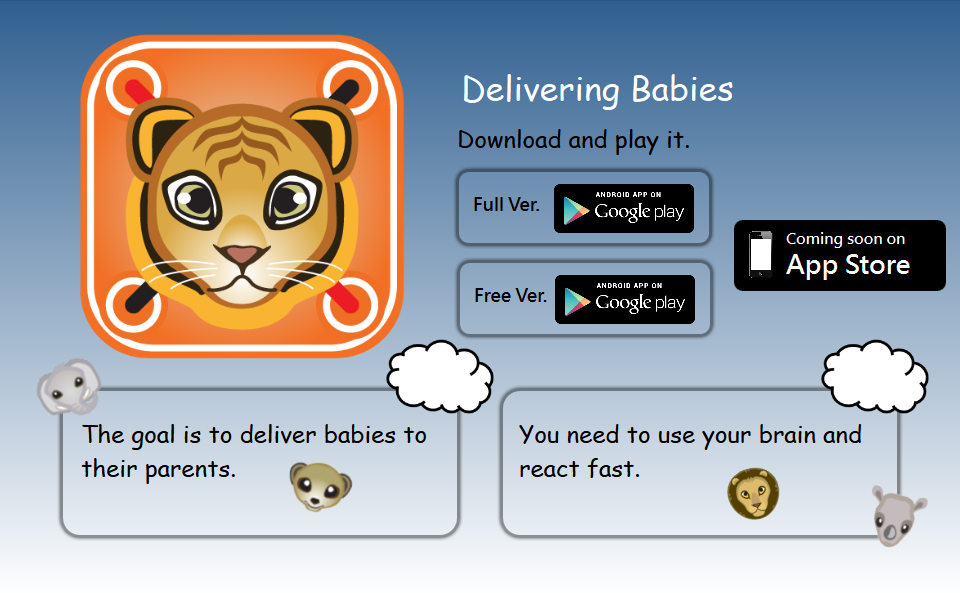
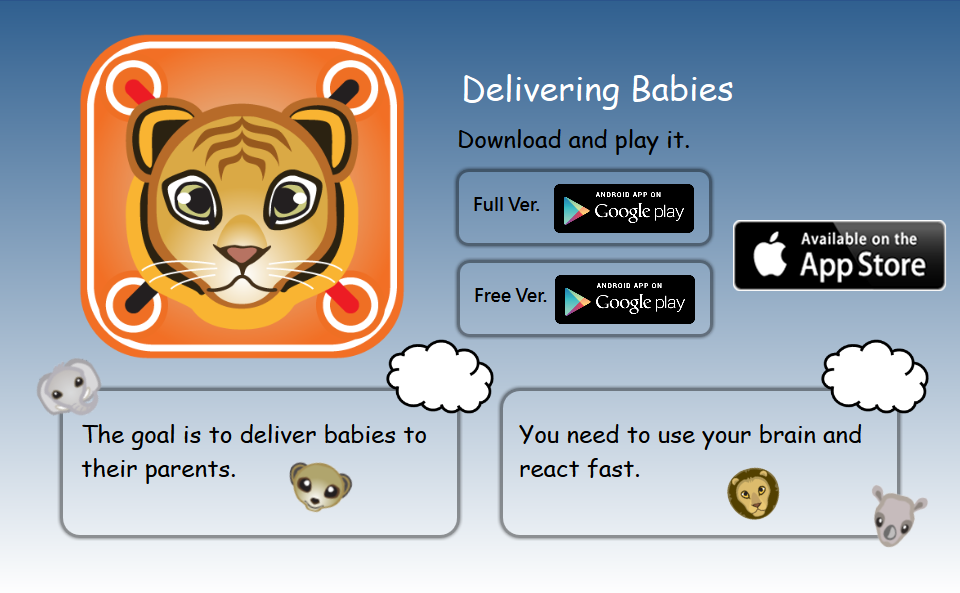
add link of DeliveringBabies

Changed region(s): [[0.75, 0.3642, 1.0, 0.516]]

diff --git a/en/DeliveringBabies.html b/en/DeliveringBabies.html
@@ -48,6 +48,7 @@
     <map name="DeliveringBabiesMap">
         <area shape="rect" coords="550,180,700,240" target="_blank" href="http://play.google.com/store/apps/details?id=com.delivering_babies.full">
         <area shape="rect" coords="550,270,700,330" target="_blank" href="https://play.google.com/store/apps/details?id=ntlchtech.deliveringBabies.free">
+        <area shape="rect" coords="733,220,948,290" target="_blank" href="https://itunes.apple.com/us/app/deliveringbabies/id727039969?ls=1&mt=8">
      </map>
   </div>
 

diff --git a/tw/DeliveringBabies.html b/tw/DeliveringBabies.html
@@ -49,6 +49,7 @@
     <map name="DeliveringBabiesMap">
         <area shape="rect" coords="550,180,700,240" target="_blank" href="http://play.google.com/store/apps/details?id=com.delivering_babies.full">
         <area shape="rect" coords="550,270,700,330" target="_blank" href="https://play.google.com/store/apps/details?id=ntlchtech.deliveringBabies.free">
+        <area shape="rect" coords="733,220,948,290" target="_blank" href="https://itunes.apple.com/us/app/deliveringbabies/id727039969?ls=1&mt=8">
      </map>
   </div>
 
